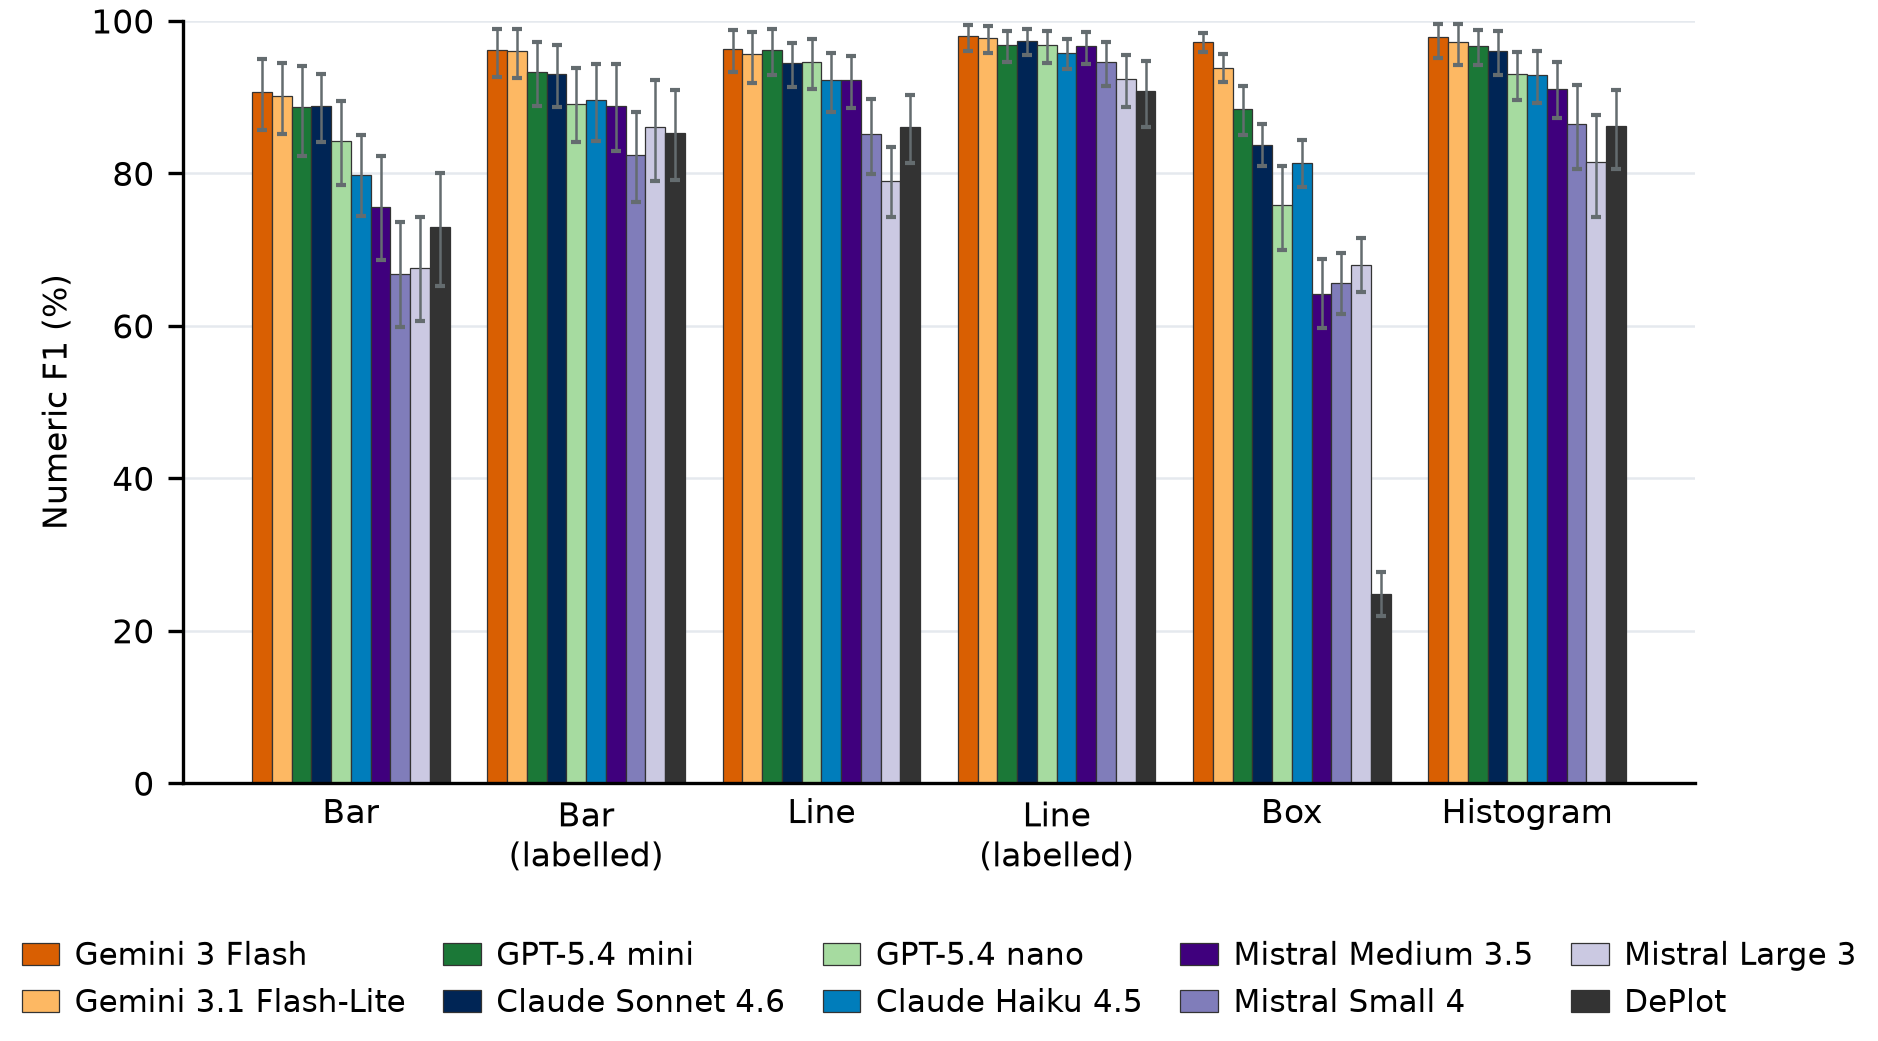
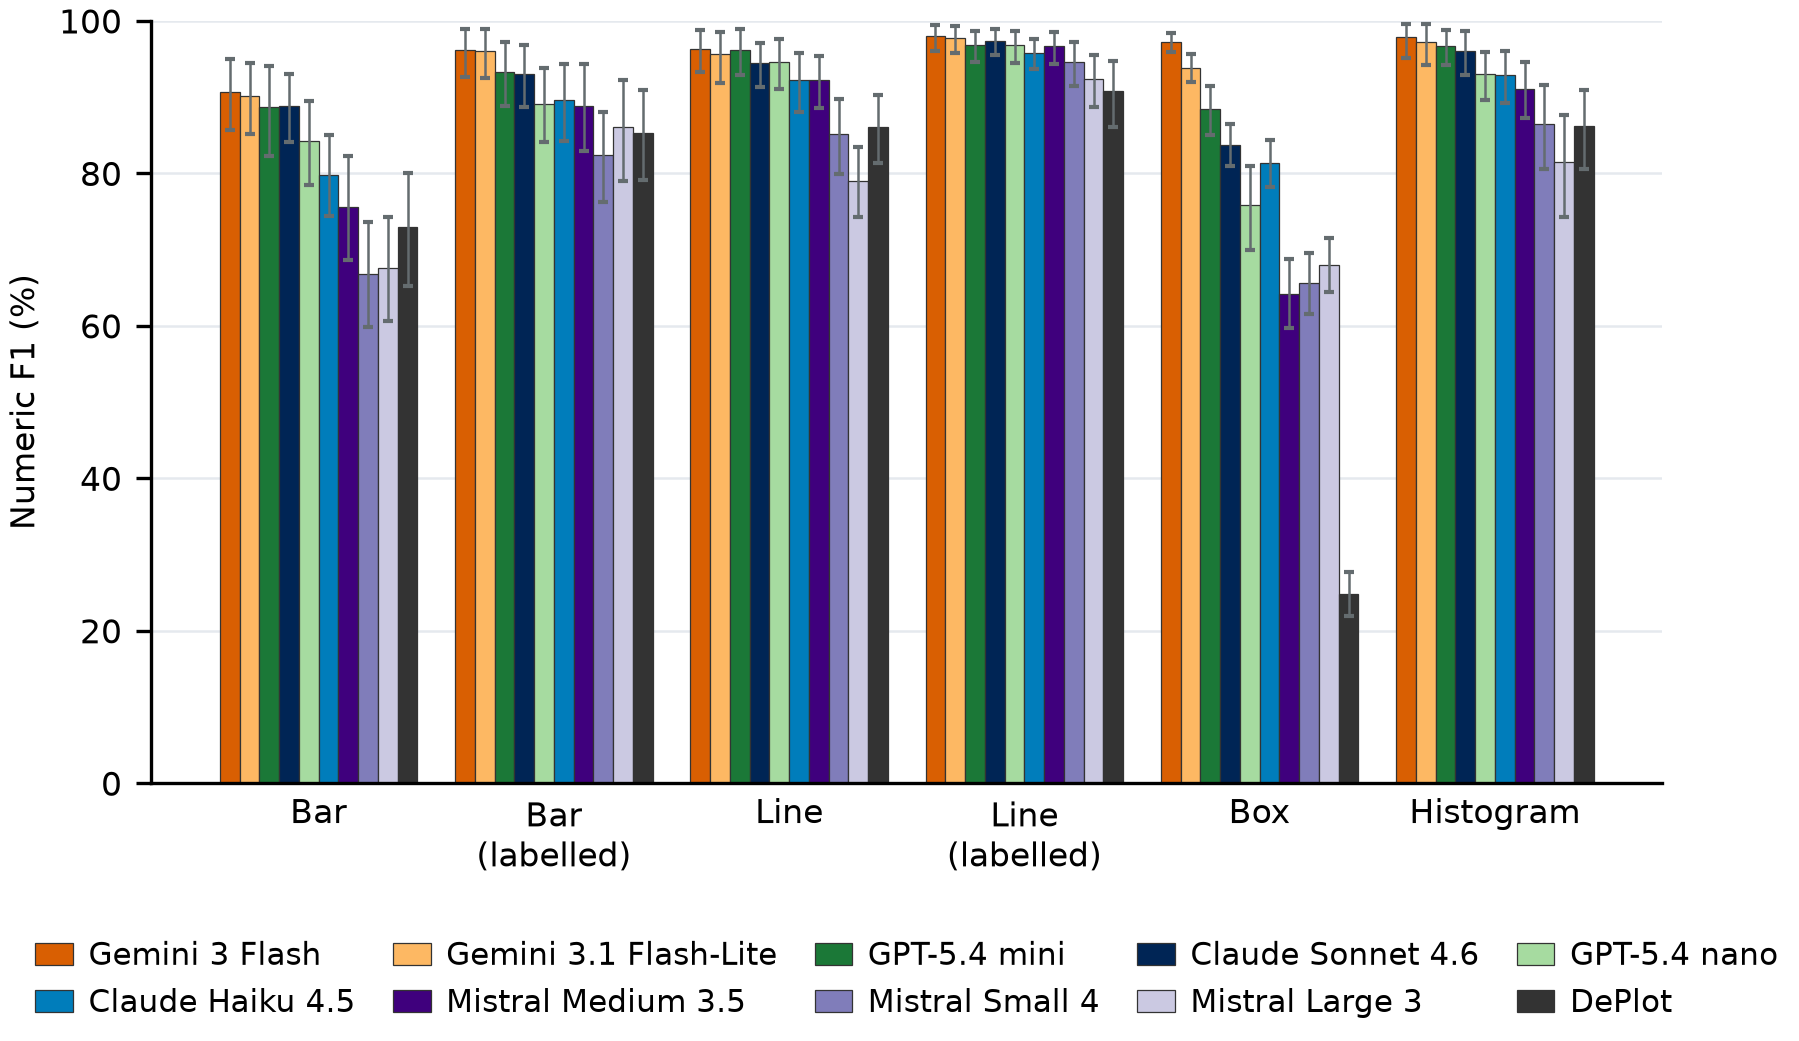
Follow the paper's third review in the app's own wording
- The confidence help no longer reads as a guide to which values to trust: it says the score is the model's own number, untested, shows the range table as the instruction the model was given, and says unhighlighted cells are unverified too. The score is shown as n/100, not as a percentage, and a line above the results asks for every value to be checked.
- Benchmarks panel and README: on the PlotQA subset the two strongest models are 'level with DePlot or slightly above it', the subset is described as what it is (mostly horizontal bar charts, scored leniently), and the claim that its charts print no values is dropped because the images were never viewed.
- Model blurbs say the scores are on synthetic charts.
- Figure 1's legend now reads in bar order.

diff --git a/streamlit_app.py b/streamlit_app.py
@@ -556,9 +556,11 @@ with st.sidebar:
             "chart types all nine vision-language models tested score above "
             "DePlot, a dedicated chart-to-table model, mostly because of "
             "box plots; the two weakest trail it on some chart types. On a "
-            "second benchmark, a PlotQA subset whose charts print no "
-            "values, DePlot scores 87.0%: two of six models match or "
-            "slightly exceed it and four fall below it, Haiku 4.5 at 70.2%. "
+            "second benchmark, a subset of PlotQA that is mostly horizontal "
+            "bar charts, scored leniently on the best-matching series of "
+            "each reply, DePlot scores 87.0%: two of six models are level "
+            "with it or slightly above it and four fall below it, Haiku 4.5 "
+            "at 70.2%. "
             "These are synthetic charts read with a two-sentence prompt: "
             "the benchmark did not test this app's own prompt, did not "
             "include Sonnet 5.5 or Opus 5.5, and says nothing yet about "
@@ -665,22 +667,29 @@ with tab_results:
     if not st.session_state.results:
         st.info("Click 'Extract all' in the sidebar to run the AI extraction.")
     else:
-        with st.expander("How is the confidence score calculated?"):
+        st.caption(
+            "Every value below is a model's reading of the figure. Check each "
+            "one against its figure before you use it."
+        )
+        with st.expander("What is the confidence score?"):
             st.markdown(
-                "The confidence score (0--100) is the AI model's self-assessed "
-                "estimate of how precisely it could read numeric values from the "
-                "figure. It is **not** a validated accuracy metric.\n\n"
-                "| Range | Meaning |\n"
+                "The confidence score (0--100) is the number the AI model "
+                "itself reports for how precisely it thinks it read the "
+                "figure. It is **not** a probability and has not been checked "
+                "against true values, so it is not known whether it is higher "
+                "for figures that were read correctly.\n\n"
+                "The model was told to choose its number like this:\n\n"
+                "| Range | Instruction to the model |\n"
                 "|-------|---------|\n"
                 "| 95--100 | Crisp axes, clear ticks, values easy to read exactly |\n"
                 "| 80--94 | Good axes but some interpolation between ticks needed |\n"
                 "| 60--79 | Small figure, overlapping elements, or missing ticks |\n"
                 "| < 60 | Largely guessing |\n\n"
-                "**Tip:** Check every extracted value against the original "
-                "figure, whatever the score. Whether the score picks out the "
-                "figures that were read wrongly has not been tested.\n\n"
-                "Cells highlighted in amber are individual values the model "
-                "flagged as uncertain (e.g. overlapping boxes, blurry regions)."
+                "Check every extracted value against the original figure, "
+                "whatever the score, and do not skip a value because it is "
+                "not highlighted. Cells highlighted in amber are values the "
+                "model itself flagged as uncertain (e.g. overlapping boxes, "
+                "blurry regions); the other cells are unverified too."
             )
         # Build a lookup from label -> PNG bytes for showing source figures
         _img_lookup: dict[str, bytes] = {
@@ -722,7 +731,7 @@ with tab_results:
                     f'<span><b>Type:</b> {fig_type}</span>'
                     f'<span><b>Y-axis:</b> {y_ax}</span>'
                     f'<span><b>Scale:</b> {scale}</span>'
-                    f'<span><b>Confidence:</b> {conf}%</span>'
+                    f'<span><b>Confidence (model\'s own):</b> {conf}/100</span>'
                     f'</div>',
                     unsafe_allow_html=True,
                 )

diff --git a/models.py b/models.py
@@ -41,24 +41,27 @@ class Model:
 #
 # Sonnet leads.  Sonnet 5.5 has not been benchmarked.  The previous Sonnet,
 # 4.6, scored 92.2% numeric F1 on the ChartX validation split against Haiku
-# 4.5's 88.7%, and 89.0% against 70.2% on the PlotQA subset, whose charts
-# print no values (results/ in the plotpick-validation repository).  Sonnet
-# 5.5 replaces 4.6 at a lower per-token price.
+# 4.5's 88.7%, and 89.0% against 70.2% on the PlotQA subset (results/ in the
+# plotpick-validation repository).  Both benchmarks are synthetic charts.
+# Sonnet 5.5 replaces 4.6 at a lower per-token price.
 MODELS: tuple[Model, ...] = (
     Model(
         short_name="Sonnet 5.5",
         model_id="claude-sonnet-5-5",
         needs_own_key=False,
         blurb=(
-            "Latest Sonnet. Not benchmarked; Sonnet 4.6 scored 92.2% on ChartX "
-            "and 89.0% on PlotQA."
+            "Latest Sonnet. Not benchmarked; on synthetic charts Sonnet 4.6 "
+            "scored 92.2% (ChartX) and 89.0% (PlotQA)."
         ),
     ),
     Model(
         short_name="Haiku 4.5",
         model_id="claude-haiku-4-5-20251001",
         needs_own_key=False,
-        blurb="Faster and cheaper. 88.7% numeric F1 on ChartX, 70.2% on PlotQA.",
+        blurb=(
+            "Faster and cheaper. On synthetic charts it scored 88.7% numeric "
+            "F1 (ChartX) and 70.2% (PlotQA)."
+        ),
     ),
     Model(
         short_name="Opus 5.5",

diff --git a/README.md b/README.md
@@ -27,7 +27,7 @@ flowchart TD
     C --> D["☑ Select figures to extract"]
     D --> E["🔑 Send to Claude Vision API"]
     E --> F{"🤖 AI reads the figure"}
-    F -->|✅ Success| G["📊 Structured data table<br/>with confidence score"]
+    F -->|✅ Success| G["📊 Structured data table<br/>with self-reported confidence"]
     F -->|❌ Error| H["⚠ Flag & continue"]
     G --> I["📤 Export"]
     I --> J["📗 Excel"]
@@ -74,7 +74,7 @@ Pick the model in the sidebar. Sonnet and Haiku run on the key the app is config
 | Haiku 4.5 | `claude-haiku-4-5-20251001` | app key | 88.7% | 70.2% |
 | Opus 5.5 | `claude-opus-5-5` | your own key only | not benchmarked | not benchmarked |
 
-Numeric F1 is the F1 between the numbers a model extracts and the numbers in the ground truth, matched within 5%. The ChartX column is six chart types of the ChartX validation split (synthetic charts, 50 per type); the PlotQA column is a 529-chart subset of PlotQA whose charts print no values, so every number has to be read from an axis, scored on the best-matching series of the reply. Both were run on the previous Sonnet, 4.6, which scored 92.2% and 89.0%. Sonnet 5.5 replaces it as the default at a lower per-token price and has not been benchmarked; Haiku 4.5 is the cheaper and faster option, and the PlotQA column shows what that costs on charts without printed values. See [Benchmarks](#benchmarks) for what these numbers do not cover.
+Numeric F1 is the F1 between the numbers a model extracts and the numbers in the ground truth, matched within 5%. The ChartX column is six chart types of the ChartX validation split (synthetic charts, 50 per type). The PlotQA column is a 529-chart subset of PlotQA's test split, mostly horizontal bar charts, scored on the best-matching series of the reply, which is a more lenient score. Both were run on the previous Sonnet, 4.6, which scored 92.2% and 89.0%. Sonnet 5.5 replaces it as the default at a lower per-token price and has not been benchmarked; Haiku 4.5 is the cheaper and faster option, and it scored well below Sonnet 4.6 on the PlotQA subset. See [Benchmarks](#benchmarks) for what these numbers do not cover.
 
 ## Troubleshooting
 
@@ -97,10 +97,11 @@ The two figures in the app's Benchmarks panel (`assets/chartx_by_type.png`, `ass
 What the benchmark does and does not show:
 
 - It scores nine vision-language models and DePlot, a dedicated chart-to-table model, on six chart types of the ChartX validation split (synthetic charts) and six of the models on a PlotQA subset.
-- On ChartX all nine models score above DePlot in aggregate (79.1-96.0% against 74.3%), mostly because of box plots, where DePlot returns one value per box. On the other five chart types the two weakest models do not lead it.
-- On the PlotQA subset DePlot scores 87.0%. Two of the six models match or slightly exceed it (89.2% and 89.0%) and four fall below it (83.2% down to 56.7%). General-purpose models are not uniformly better than a dedicated one.
+- On ChartX all nine models score above DePlot in aggregate (79.1-96.0% against 74.3%), mostly because of box plots, where DePlot returns one value per box. On the other five chart types the four strongest models still lead DePlot and the two weakest do not.
+- On the PlotQA subset (529 charts from the start of its test split, 427 of them horizontal bar charts, scored leniently on the best-matching series of each reply) DePlot scores 87.0%. Two of the six models are level with it or slightly above it (89.2% and 89.0%) and four fall below it (83.2% down to 56.7%). General-purpose models are not uniformly better than DePlot, which was trained on PlotQA.
 - It uses a two-sentence prompt, not this app's structured prompt, and it scores the numbers only, not the group, timepoint, error-bar or group-size fields the app returns.
 - The app's default model, Sonnet 5.5, and Opus 5.5 were not benchmarked.
+- The confidence score and the amber uncertainty flags are the model's own, and whether they pick out the values that are wrong has not been tested.
 - An earlier version of the paper and of this README reported higher PlotQA scores and a larger lead over DePlot. Those came from scoring errors, which the paper's section "Changes from version 1" describes.
 - Accuracy on real biomedical figures has not been established. Check every extracted value against its figure.
 
